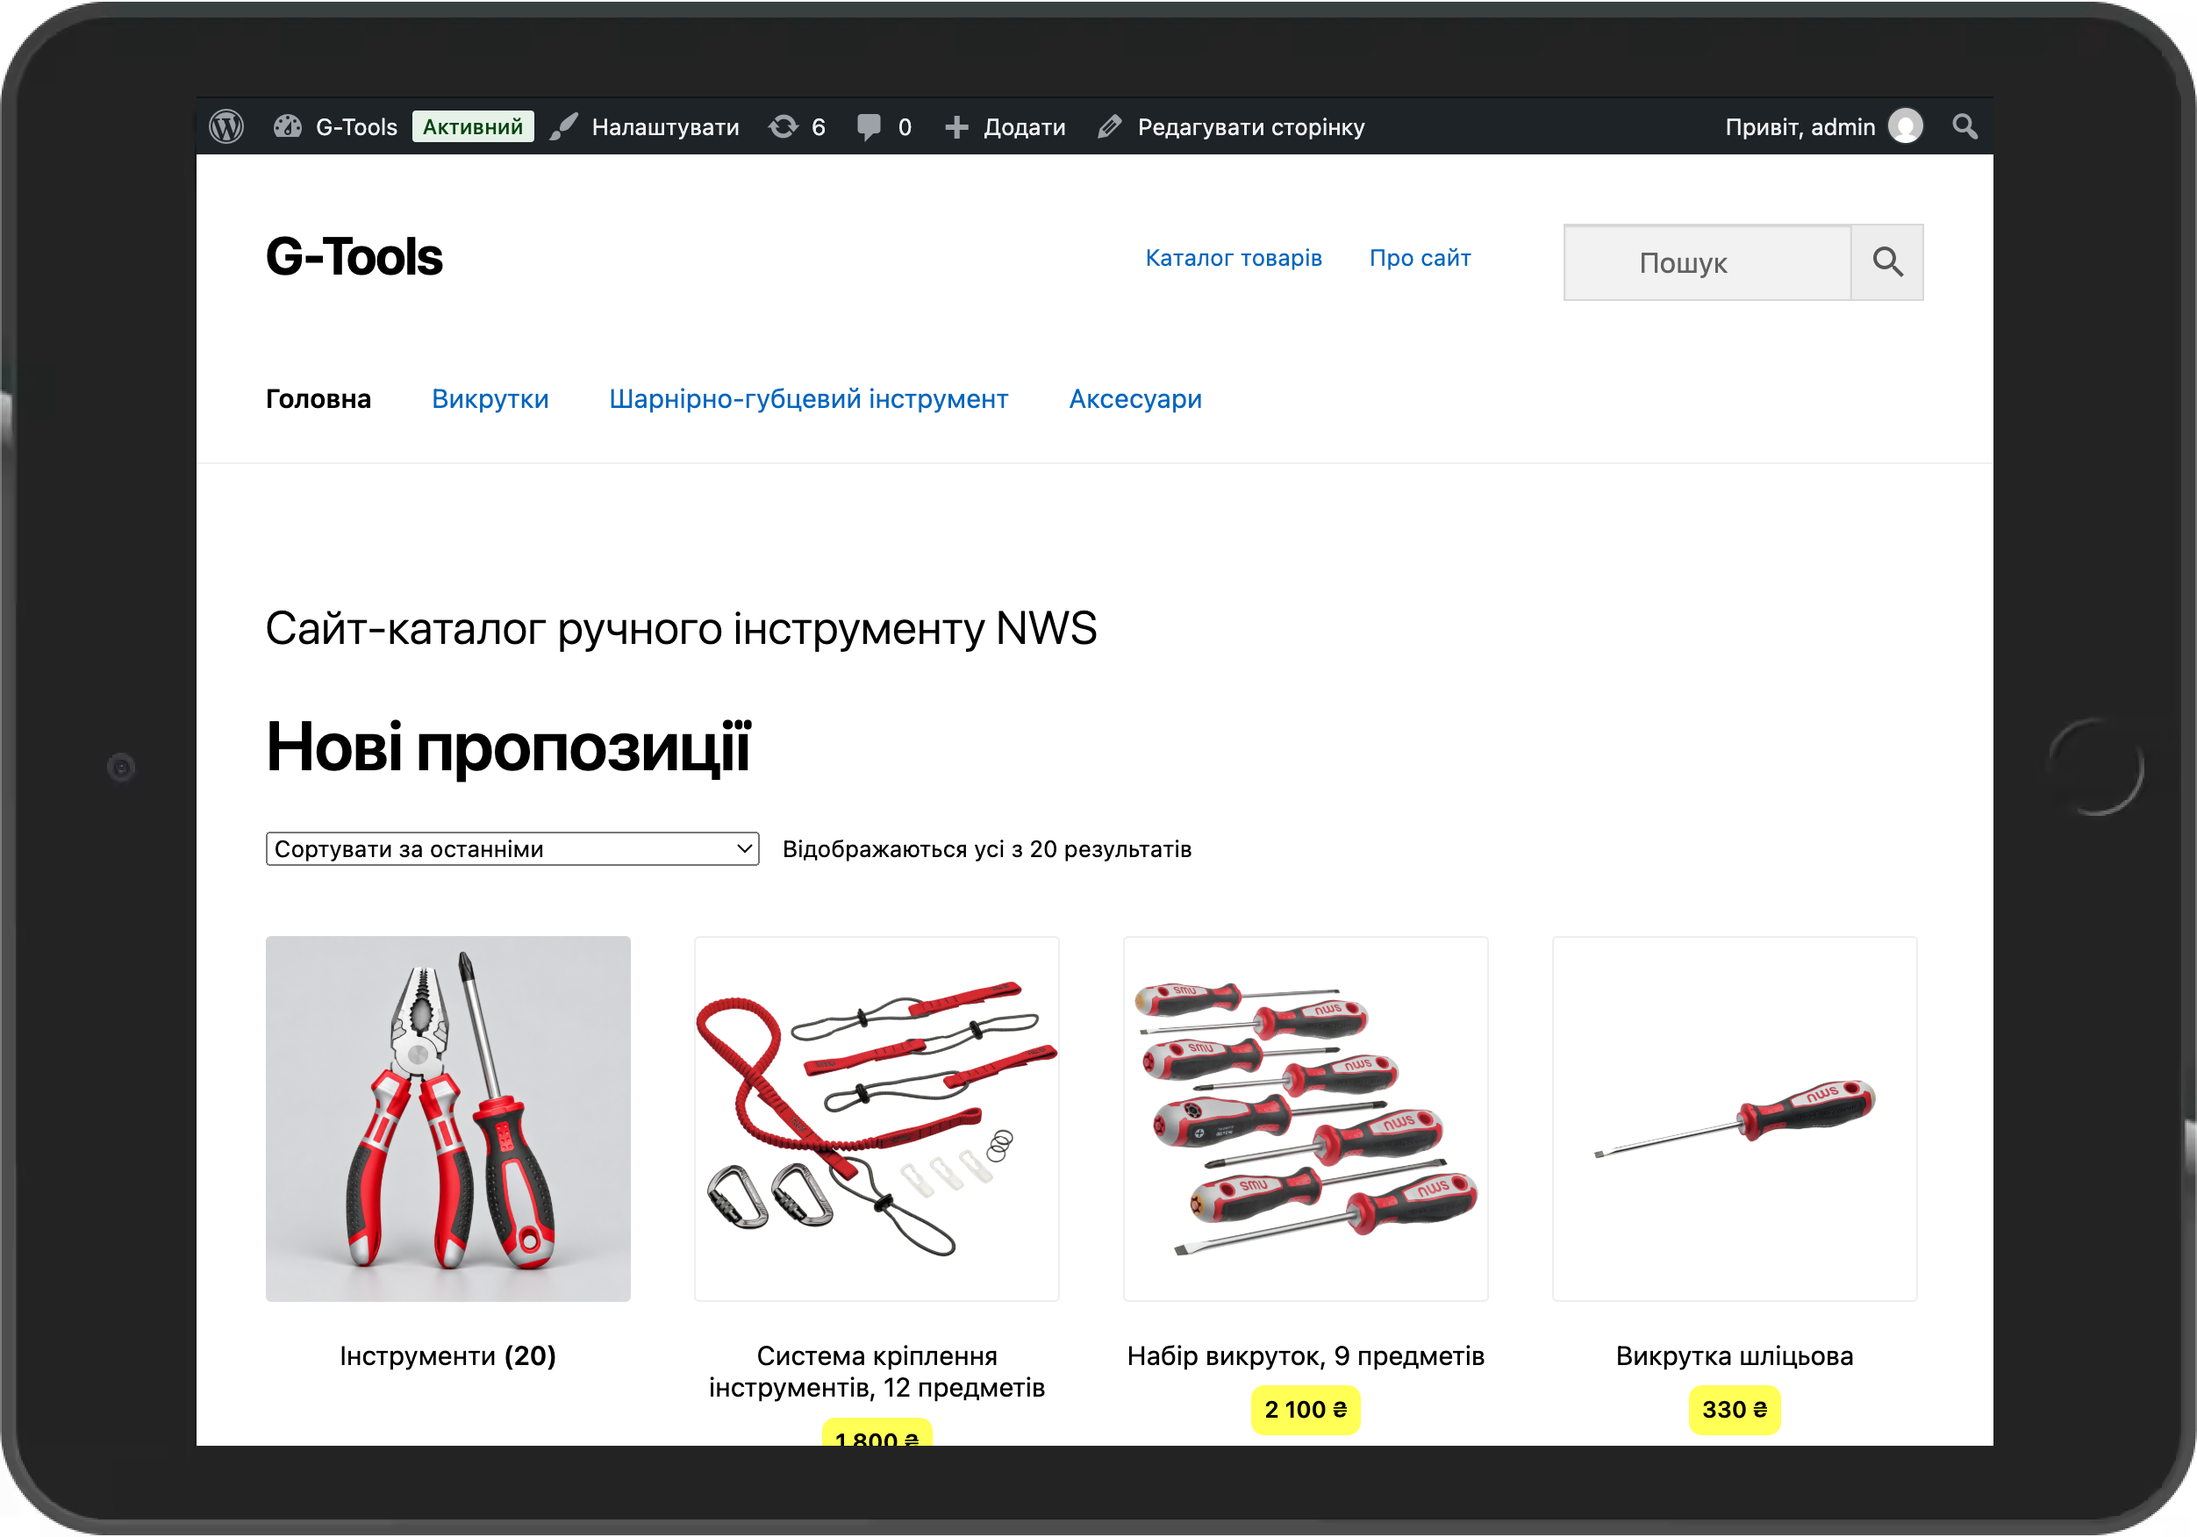
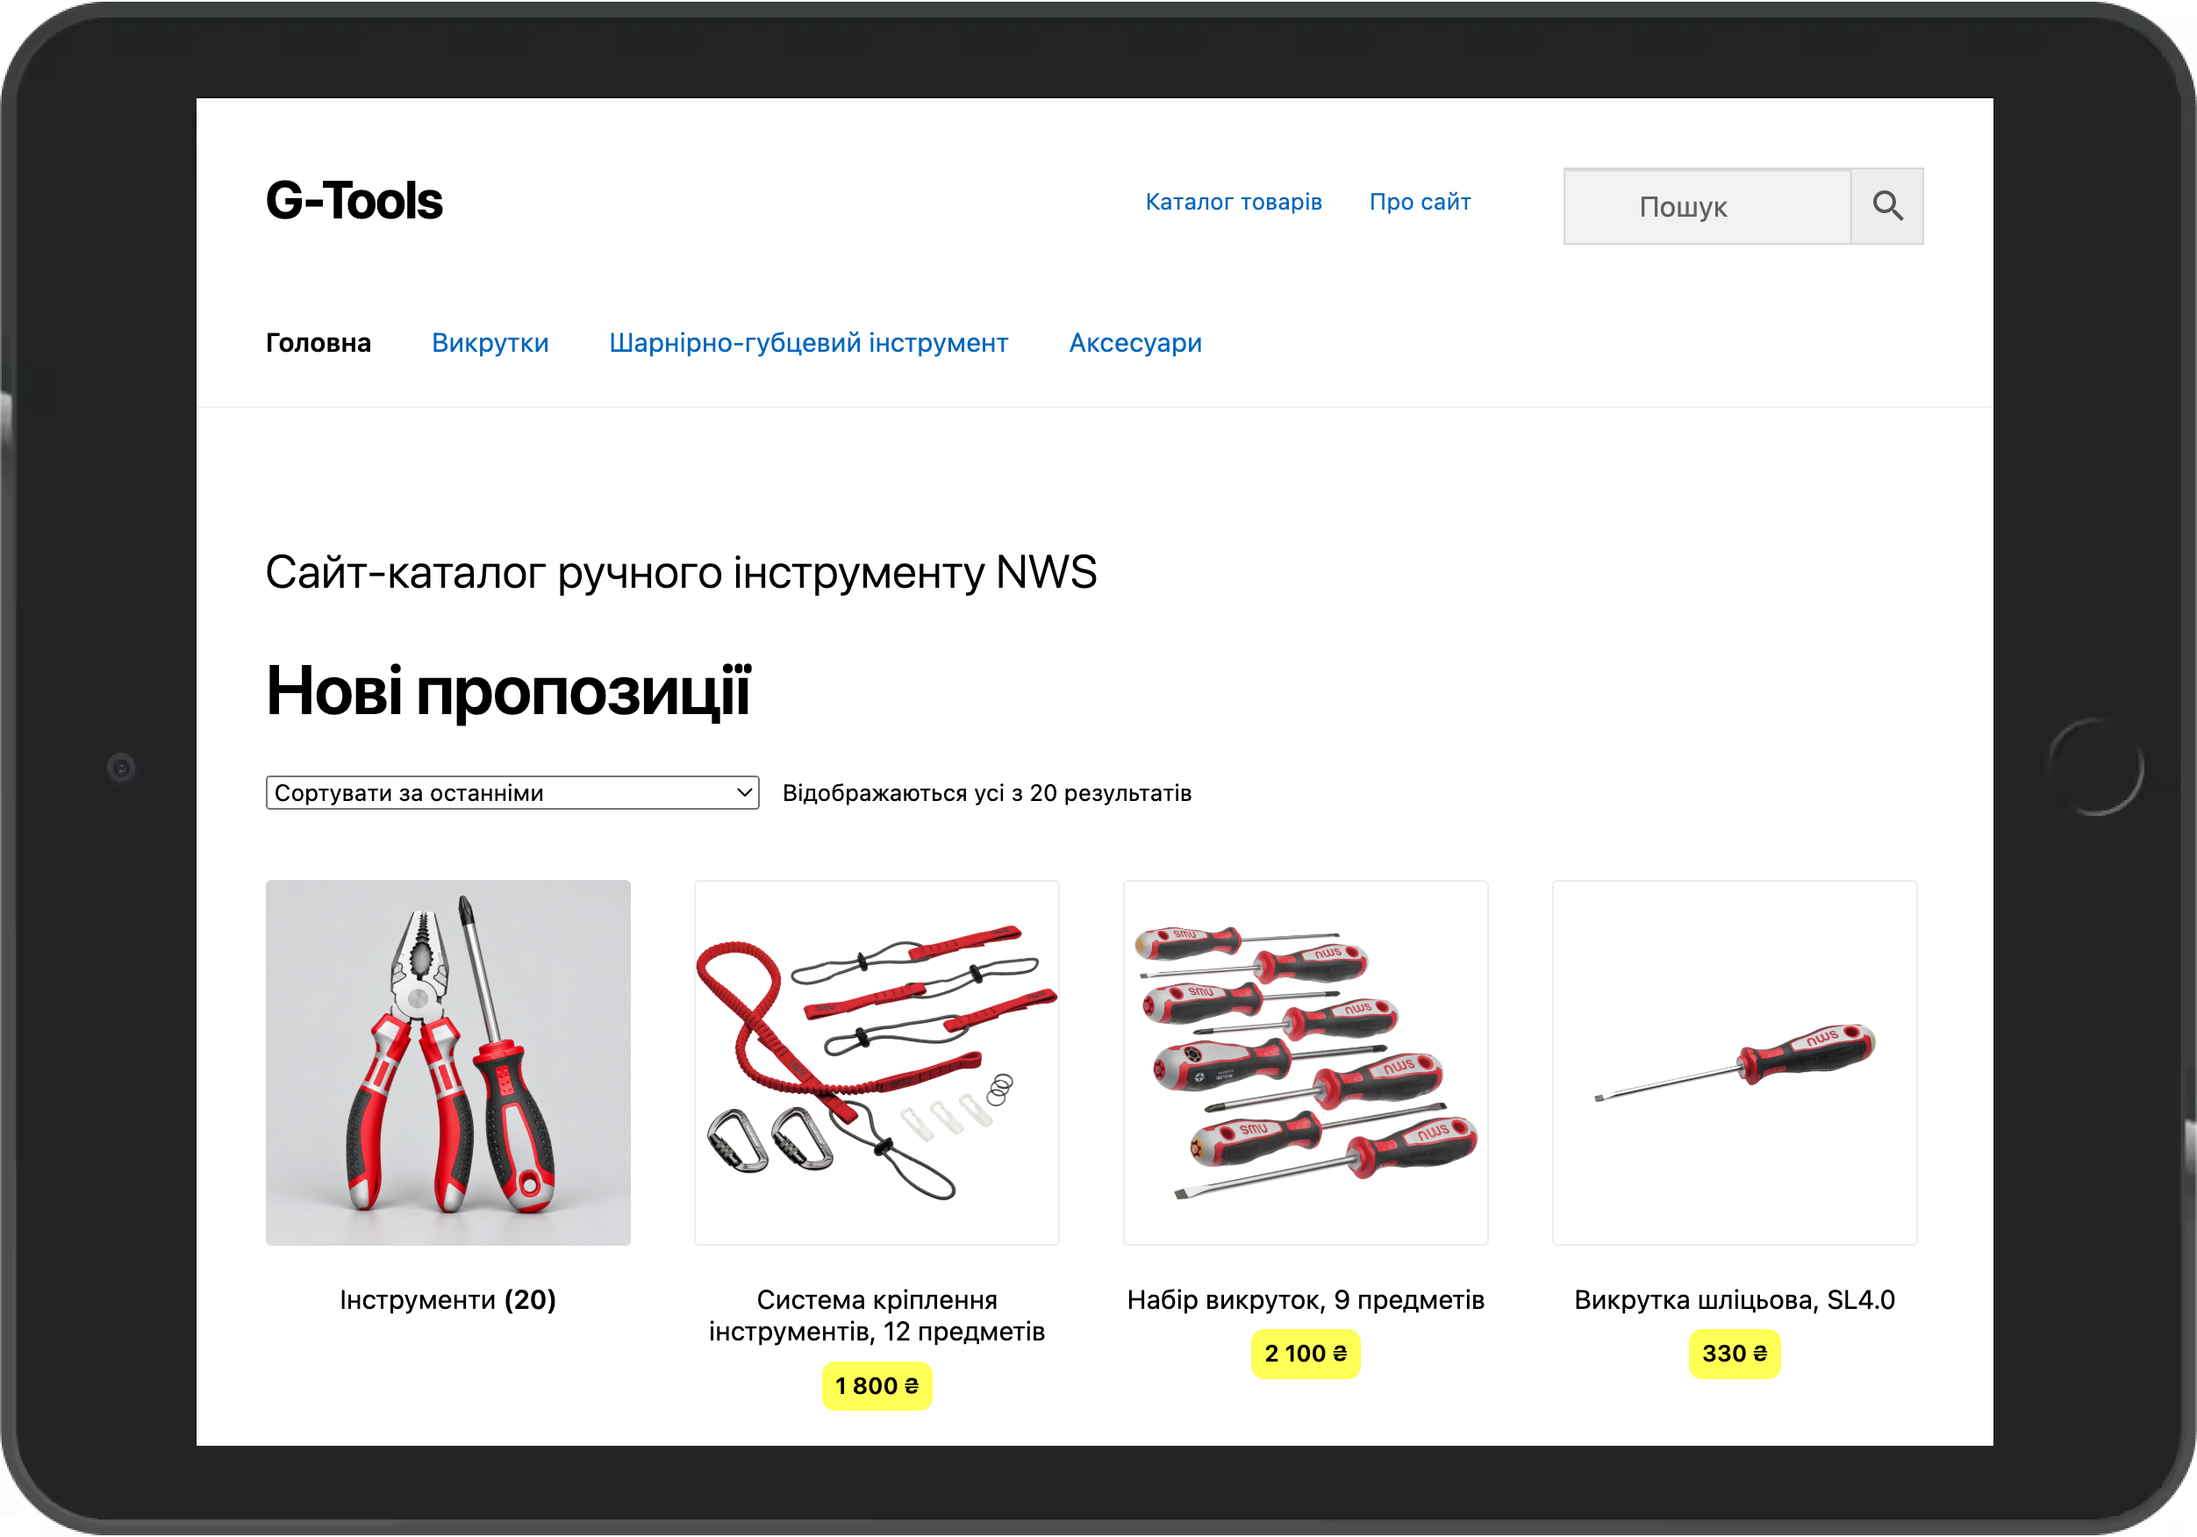
add CM site 1126

diff --git a/index.html b/index.html
@@ -54,7 +54,7 @@
 <h1 class="">Олександр Кравчук</h1>
 
 <div class="ak_clear_1"></div>
-<p class="lead">Впорядковую інформацію у IT-продуктах, роблячи її зрозумілою для людей.</p>
+<p class="lead">Працюю з наповненням сайтів і товарними каталогами. Впорядковую інформацію, роблячи її зрозумілою для людей.</p>
     
 <div class="ak_clear_1"></div>
 <ul>
@@ -70,25 +70,29 @@
 <h2 class="">Про себе</h2>
 <div class="ak_clear_15"></div>
     
-<p>Маю практичний досвід роботи з інтерфейсами, текстами та графікою.</p>
-<p>Уважний до деталей, добре працюю з уже наявним матеріалом: можу його систематизувати, відредагувати та підготувати до використання.</p>
+<p>Маю практичний досвід роботи з інтерфейсами, текстами та дизайном.</p>
+<p>Мені подобається системний підхід і увага до деталей. Я глибоко вивчаю предмет, перш ніж стати до роботи.</p>
+<p>Займався UX/UI дизайном, тепер застосовую цей досвід у роботі з контентом та інтернет-магазинами. Зосереджуюся на контент-менеджменті й управлінні товарними каталогами.</p>
 <p>Народився в Києві у 1981 році в родині професійних музикантів.</p>
-<p>Розгляну практичну роботу, де важливе послідовне та якісне виконання конкретних завдань.</p>
      
 </div><!-- / container --> 
     
     
 <div class="ak_clear_2"></div> 
     
-    
-<!--SLIDER -->   
-    
+
 <div class="container">
 <h2>Демо-каталог</h2>
 <div class="ak_clear_15"></div>
+    
+<p>Проєкт охоплює повний цикл роботи з товарним каталогом — від підготовки даних до публікації на сайті.</p>
+<p>Сайт розгорнуто локально на WordPress + WooCommerce. Інтерфейс оформлено за допомогою власного CSS.</p>
+    
+<div class="ak_clear_2"></div>
+    
+<!--SLIDER --> 
 
 <div class="slider">
-
     <img class="slide active" src="img/demo-1.png" alt="">
     <img class="slide" src="img/demo-2.png" alt="">
     <img class="slide" src="img/demo-3.png" alt="">
@@ -100,16 +104,34 @@
     <div class="click-right"></div>
 
     <div class="dots"></div>
-
 </div>
+    
+<!-- / SLIDER --> 
+    
+<div class="ak_clear_2"></div>
+    
+<ul>  
+    <li><strong>Структура даних:</strong> 5 аркушів, 20 товарів, довідники категорій і атрибутів, окрема таблиця зображень та аркуш контролю якості.</li>
+    <li><strong>Автоматизація:</strong> формули для отримання значень із довідників, формування списків зображень та атрибутів.</li>
+    <li><strong>SEO:</strong> формування SEO-заголовків, описів і ключових слів для товарних сторінок.</li>
+    <li><strong>QA:</strong> перевірка артикулів на дублікати й зайві пробіли, контроль обов'язкових полів, цін та інших умов.</li>
+</ul>
+    
+<div class="ak_clear_15"></div>
+    
+<a href="https://docs.google.com/spreadsheets/d/14dibAJk1RQVApiyNCpjiy4kdt3GCE4KBvkuZ4FaR9Js/edit?usp=sharing" class="btn-flag btn-hero" target="_blank">Переглянути Google&nbsp;Sheets&nbsp;→</a>
+    
+    
+<div class="ak_clear_1"></div>
+    
+<p>♥ Реалізовано живою людиною</p>
+
 
 </div><!-- / container --> 
 
-<!-- / SLIDER -->     
     
     
-    
-    
+
 <div class="ak_clear_2"></div>  
 <div class="bg-fog">
 <div class="ak_clear_2"></div>
@@ -121,12 +143,12 @@
 <h3>Проєктування, тексти та дизайн</h3>
 <div class="ak_clear_15"></div>
     
-<h4>Фрілансова робота, дотепер</h4>
-<p>Виконував зокрема: аудит сайтів, структурування текстів, приведення графічного матеріалу до єдиного стилю тощо.</p>
+<h4>Фріланс, дотепер</h4>
+<p>Виконував, зокрема, аудит сайтів, структурування текстів, створення графічного матеріалу — із використанням ШІ та без.</p>
 
 <div class="ak_clear_1"></div>
 <h4>Hexagon, 2019</h4>
-<p>Проєктував e-commerce рішення для сайту інтернет-магазину «Фокстрот». Проводив чисельні перемовини та мітинги з клієнтами.
+<p>Проєктував e-commerce рішення для сайту інтернет-магазину «Фокстрот». Проводив численні перемовини та мітинги з клієнтами.
 
 <div class="ak_clear_1"></div>
 <h4>Студія Лебедєва, 2017</h4>
@@ -154,7 +176,7 @@
 
 <div class="ak_clear_1"></div>
 <h4>Дослідницький проєкт для Mastercard, 2015</h4>
-<p>Провів фотографування 18&nbsp;станцій метро та польове опитування 100&nbsp;респондентів.</p>
+<p>Дослідив 18&nbsp;станцій метро та провів польове опитування 100&nbsp;респондентів.</p>
 
     
 
@@ -163,7 +185,7 @@
 <div class="ak_clear_15"></div>
     
 <h4>Інтернет-магазин «Нота», 2013</h4>
-<p>Комплектував та контролював відправлення інтернет-замовлень. Також створив та підтримував корпоративний стиль магазину.</p>
+<p>Комплектував інтернет-замовлення та контролював їх відправлення. Також створив та підтримував корпоративний стиль магазину.</p>
   
     
     
@@ -172,7 +194,7 @@
 <div class="ak_clear_15"></div>
     
 <h4>Музична практика, дотепер</h4>
-<p>Виконую духовні твори І. С. Баха на органі.</p>
+<p>Виконую класичні твори І. С. Баха для органа.</p>
    
 <div class="ak_clear_1"></div>
 <h4>Національний президентський оркестр, 2006</h4>
@@ -190,9 +212,10 @@
 <h2>Інструменти</h2>
 <div class="ak_clear_15"></div>
 <ul>
-<li>ПЗ та сервіси: Google Docs · Figma · Sketch · Affinity · Brackets · XMind.</li>
-<li>Веб-технології: HTML/CSS · GitHub (базово).</li>
-<li>Штучний інтелект: інструменти для роботи з текстом і графікою.</li>
+    <li><strong>ПЗ та сервіси:</strong> Google Sheets + Docs · Figma · Sketch · Affinity · Brackets · XMind · GitHub (базово)</li>
+    <li><strong>Веб-технології:</strong> HTML + CSS</li>
+    <li><strong>Штучний інтелект:</strong> тексти, графіка, код</li>
+    <li><strong>CMS:</strong> WordPress + WooCommerce (базово)</li>
 </ul>
 
 <div class="ak_clear_2"></div>
@@ -206,15 +229,16 @@
 <div class="ak_clear_1"></div>
 <h4>Додаткове навчання</h4>
 <ul>
-<li>Projector, Школа візуальних комунікацій, КАМА, авторські курси з комунікацій та дизайну.</li>
-<li>Тренінг персональної ефективності «Лідер-клас».</li>
+<li><a href="https://simpli.app.link/XIxBHPJjg6b" target="_blank">Онлайн-курс Google Sheets</a> від Simplilearn</li>
+<li>Projector, Школа візуальних комунікацій, Київська академія медіа мистецтв</li>
+<li>Тренінг персональної ефективності «Лідер-клас»</li>
 </ul>
   
 <div class="ak_clear_1"></div>
 <h4>Мови</h4>
 <ul>
 <li>Українська, російська — вільно</li>
-<li>Англійська — елементарний рівень</li>
+<li>Англійська — базовий рівень, розуміння професійної термінології</li>
 </ul>
 
 </div><!-- / container -->
@@ -227,7 +251,7 @@
 
 <div class="container">
 
-<p class="small">Верстка автора. Гарнітури KyivType, Mariupol. Типограф Copilot.</p>
+<p class="small">Верстка автора. Гарнітури KyivType, Mariupol. Типограф і слайдер Copilot.</p>
 <p class="small">О. Кравчук. Київ, <span id="year"></span>&nbsp;р.</p> 
  
 <div class="ak_clear_2"></div>  

diff --git a/css/ak-custom.css b/css/ak-custom.css
@@ -115,6 +115,9 @@ img {
     }
 
 
+strong {
+    font-weight: 600;
+    }
 
 /* TYPO ----------------------------- */
 
@@ -287,6 +290,7 @@ ul li:before {
 .btn-hero {
     position: relative;
     display: block;
+    max-width: 720px;
     height: 3rem;
     padding: 0 1rem;
     font-family: 'k';
@@ -303,11 +307,13 @@ ul li:before {
     background: -moz-llinear-gradient(120deg, #0587EB 0%, #FFD815 100%); 
     background: linear-gradient(120deg, #0587EB 0%, #FFD815 100%); 
     color: #fff;
+    text-decoration: none;
     }
 
     .btn-flag:hover {
         color: #fff;
         background: #000;
+        text-decoration: none;
         }
 
 
@@ -381,7 +387,7 @@ ul li:before {
 
 .nav{
     position:absolute;
-    top:50%;
+    top:48%;
     transform:translateY(-50%);
     width:2rem;
     height:2rem;
@@ -392,6 +398,7 @@ ul li:before {
     opacity:0.5;
     z-index:10;
     font-family: 'k';
+    font-size: 1rem;
     font-weight: 700;
     border-radius: .5rem;
     }
